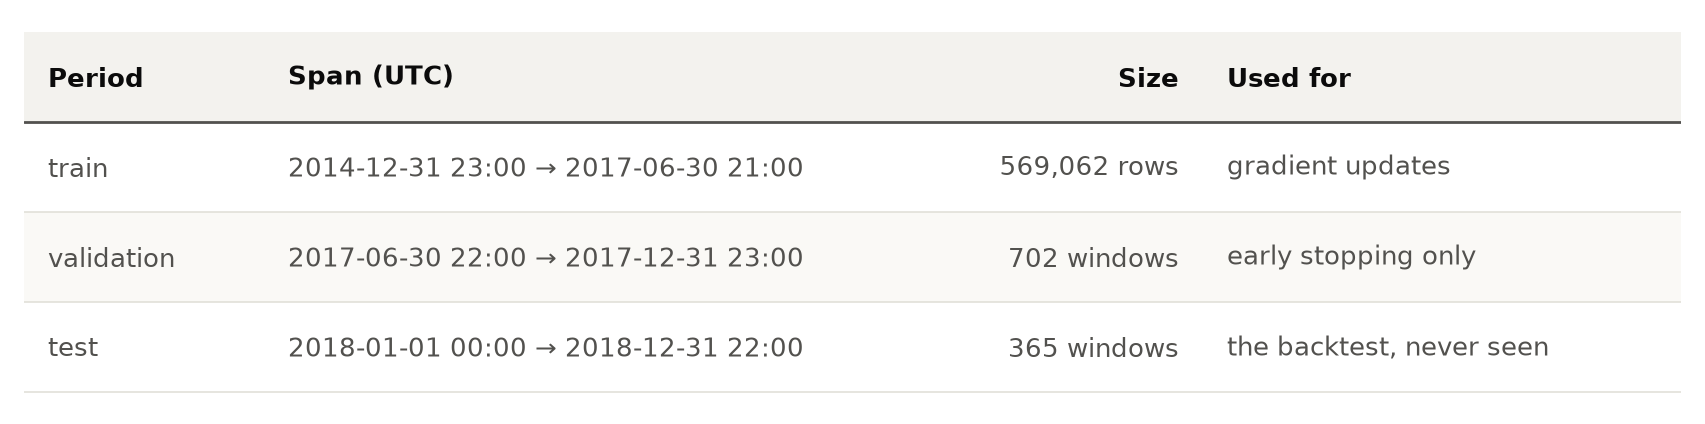
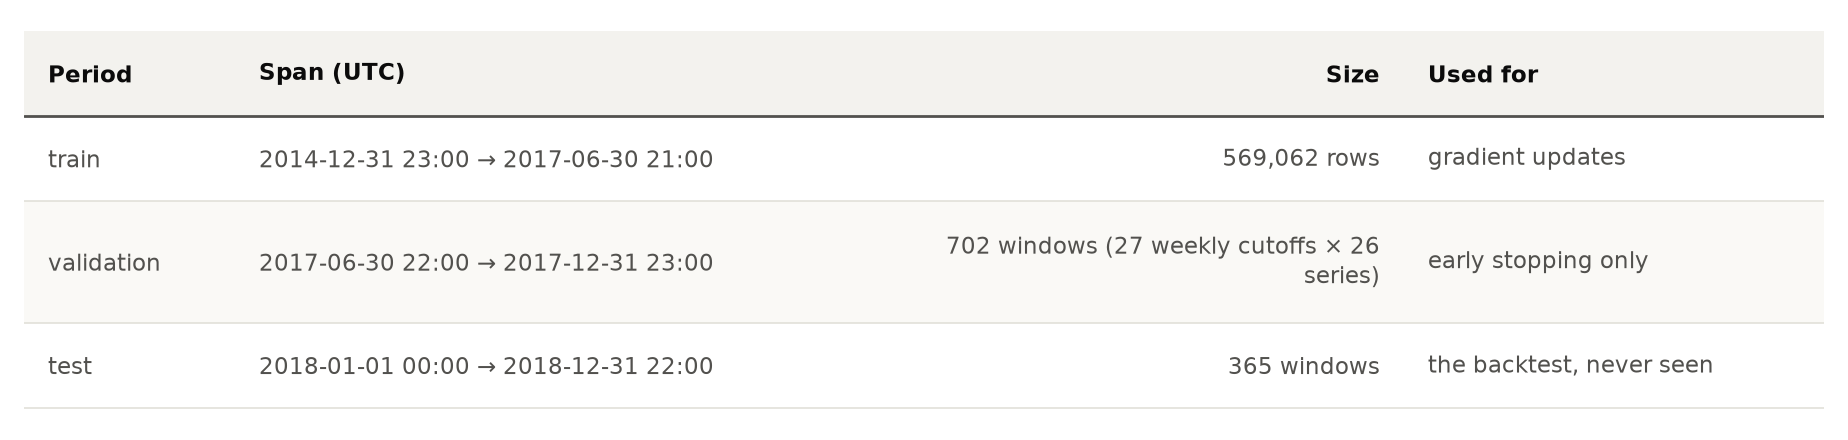
Warn when cross-learning spans more series than the batch size the library suggests
Chronos2Forecaster.predict emits a UserWarning when cross_learning=True is
used over more than 100 series: the predict_df docstring notes that results
then depend on the batch size and suggests about 100 series per batch. Article
2 quotes that guidance; article 4 spells out the 702 validation windows as
27 weekly cutoffs x 26 series.

diff --git a/src/c2p/models.py b/src/c2p/models.py
@@ -17,6 +17,7 @@ The pipeline is loaded once and wrapped; the wrapper only translates between our
 from __future__ import annotations
 
 import logging
+import warnings
 from collections.abc import Sequence
 from typing import TYPE_CHECKING
 
@@ -41,6 +42,10 @@ logger = logging.getLogger(__name__)
 
 CHRONOS2 = "amazon/chronos-2"
 CHRONOS2_SMALL = "autogluon/chronos-2-small"
+# Cross-learning batch size suggested by the ``predict_df`` docstring ("around 100, as used in
+# the Chronos-2 technical report"); larger batches "deviate from the maximum group size used
+# during pretraining" and make the forecast depend on how the frame is cut into batches.
+CROSS_LEARNING_BATCH_HINT = 100
 CHRONOS2_SYNTH = "autogluon/chronos-2-synth"
 CHRONOS_BOLT_BASE = "amazon/chronos-bolt-base"
 
@@ -450,6 +455,16 @@ class Chronos2Forecaster:
             freq=freq,
         )
         warn_untrained_levels(levels, self.pipeline.quantiles, model_name=self.name)
+        n_series = int(context[ID_COL].nunique())
+        if self.cross_learning and n_series > CROSS_LEARNING_BATCH_HINT:
+            warnings.warn(
+                f"cross_learning=True over {n_series} series with batch_size={self.batch_size}: "
+                "every series in a batch joins one group, so the forecast depends on how the "
+                "frame is cut into batches. The library suggests about "
+                f"{CROSS_LEARNING_BATCH_HINT} series per batch (the size used in the technical "
+                "report); prefer that and frames of related series.",
+                stacklevel=2,
+            )
         raw = self.pipeline.predict_df(
             context,
             future_df=future_covariates,

diff --git a/tests/test_baselines.py b/tests/test_baselines.py
@@ -8,6 +8,7 @@ from __future__ import annotations
 
 import json
 import logging
+import warnings
 from collections.abc import Sequence
 from unittest.mock import create_autospec
 
@@ -556,6 +557,17 @@ def test_auto_ets_validates_parameters(kwargs, match):
 # --------------------------------------------------------------------------------------------
 # Chronos wrappers with stub pipelines (no network)
 # --------------------------------------------------------------------------------------------
+
+
+def test_chronos2_forecaster_warns_on_cross_learning_over_many_series(chronos2_stub):
+    kwargs = {"prediction_length": 6, "quantile_levels": EVAL_QUANTILES, "freq": FREQ}
+    many = make_context(n_days=3, items=[f"s{i:03d}" for i in range(101)], nan_positions=())
+    with pytest.warns(UserWarning, match="depends on how the frame is cut"):
+        Chronos2Forecaster(chronos2_stub, cross_learning=True).predict(many, **kwargs)
+    with warnings.catch_warnings():
+        warnings.simplefilter("error")
+        Chronos2Forecaster(chronos2_stub, cross_learning=False).predict(many, **kwargs)
+        Chronos2Forecaster(chronos2_stub, cross_learning=True).predict(make_context(), **kwargs)
 
 
 def test_chronos2_forecaster_passes_future_df_only_with_covariates(chronos2_stub):

diff --git a/articles/02-evaluation-context-multivariate-and-cold-start.md b/articles/02-evaluation-context-multivariate-and-cold-start.md
@@ -327,10 +327,11 @@ grouped = Chronos2Forecaster(pipeline, cross_learning=True).predict(
 The control above is the second line with `cross_learning=False`: same frame, separate groups.
 
 One practical detail that the library documents and that is easy to miss: with `cross_learning=True`
-the forecast depends on the batch, because every series in the batch joins the group. Chronos-2 was
-pretrained with groups of up to about 100 series, so `predict_df`'s default `batch_size=256` is too
-large for this mode and the authors suggest a batch of around 100; here the frame has five series,
-so the whole frame is one group. If you cross-learn across thousands of meters, split them into
+the forecast depends on the batch, because every series in the batch joins the group. The
+docstring of `predict_df` warns that very large batches "deviate from the maximum group size used
+during pretraining" and suggests "a batch size around 100 (as used in the Chronos-2 technical
+report)", so the default `batch_size=256` is not the right setting for this mode; here the frame
+has five series, so the whole frame is one group. If you cross-learn across thousands of meters, split them into
 batches of related series (same region, same product line) rather than letting the batch boundary
 decide who informs whom.
 

diff --git a/articles/medium/02-evaluation-context-multivariate-and-cold-start.md b/articles/medium/02-evaluation-context-multivariate-and-cold-start.md
@@ -310,10 +310,11 @@ grouped = Chronos2Forecaster(pipeline, cross_learning=True).predict(
 The control above is the second line with `cross_learning=False`: same frame, separate groups.
 
 One practical detail that the library documents and that is easy to miss: with `cross_learning=True`
-the forecast depends on the batch, because every series in the batch joins the group. Chronos-2 was
-pretrained with groups of up to about 100 series, so `predict_df`'s default `batch_size=256` is too
-large for this mode and the authors suggest a batch of around 100; here the frame has five series,
-so the whole frame is one group. If you cross-learn across thousands of meters, split them into
+the forecast depends on the batch, because every series in the batch joins the group. The
+docstring of `predict_df` warns that very large batches "deviate from the maximum group size used
+during pretraining" and suggests "a batch size around 100 (as used in the Chronos-2 technical
+report)", so the default `batch_size=256` is not the right setting for this mode; here the frame
+has five series, so the whole frame is one group. If you cross-learn across thousands of meters, split them into
 batches of related series (same region, same product line) rather than letting the batch boundary
 decide who informs whom.
 

diff --git a/articles/04-fine-tuning-lora-versus-full.md b/articles/04-fine-tuning-lora-versus-full.md
@@ -48,7 +48,7 @@ with three periods in time order:
 | Period | Span (UTC) | Size | Used for |
 | --- | --- | ---: | --- |
 | train | 2014-12-31 23:00 → 2017-06-30 21:00 | 569,062 rows | gradient updates |
-| validation | 2017-06-30 22:00 → 2017-12-31 23:00 | 702 windows | early stopping only |
+| validation | 2017-06-30 22:00 → 2017-12-31 23:00 | 702 windows (27 weekly cutoffs × 26 series) | early stopping only |
 | test | 2018-01-01 00:00 → 2018-12-31 22:00 | 365 windows | the backtest, never seen |
 
 One detail matters more than it first appears. The validation set doesn't get handed over as one
